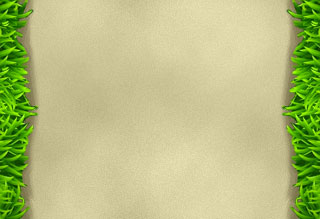
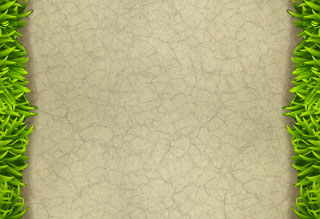
mend

diff --git a/source/js/core/game.js b/source/js/core/game.js
@@ -1,6 +1,7 @@
 var instance,
 	requestAnimationFrame = require("../util/request-animation-frame"),
-	Drawable = require("../core/drawable");
+	Drawable = require("../core/drawable"),
+	Road = require("../core/road");
 
 function Game() {
 	this.started = false;
@@ -9,17 +10,7 @@ function Game() {
 	this.height = Zepto(window).height();
 }
 
-var teste,
-	multiplier = 1;
-
-window.th = function (v) {
-	teste.height = v;
-	Zepto("div").css("height", v + "px");
-};
-window.tw = function (v) {
-	teste.width = v;
-	Zepto("div").css("width", v + "px");
-};
+var teste;
 
 Game.prototype = {
 	init: function (wrapperElement) {
@@ -27,6 +18,26 @@ Game.prototype = {
 		this.initialized = true;
 
 		this.createCanvasElem(wrapperElement);
+		this.addRoad();
+		this.addTapEvent();
+
+	},
+	addRoad: function () {
+		this.road = new Road(this.context, true);
+		this.road.width = this.width;
+		this.road.height = this.height;
+	},
+	run: function (event) {
+		console.log(event);
+	},
+	tapEvent: function (event) {
+		this.run(event);
+	},
+	addTapEvent: function () {
+		var that = this;
+		Zepto("body").on("click", function (event) {
+			that.tapEvent(event);
+		});
 	},
 	createCanvasElem: function (wrapperElement) {
 		wrapperElement.append(Zepto("<canvas id=\"gamecanvas\" width=\"" + this.width + "px\" height=\"" + this.height + "px\"></canvas>"));
@@ -41,50 +52,11 @@ Game.prototype = {
 		if(this.started) return;
 		this.started = true;
 
-		teste = new Drawable(this.context);
-		teste.tilling = true;
-		teste.setImage("http://192.168.25.176:7000/img/bricks-2.jpg");
-		teste.width = this.width;
-		teste.height = this.height;
-		teste.x = 0;
-		teste.y = 0;
-
-		th(teste.height);
-		tw(teste.width);
-
-		window.teste = teste;
-
 		this.increment();
 	},
 	increment: function () {
 		var that = this;
 
-		if(teste.imageY >= teste.imageHeight) {
-			teste.imageY = 1;
-		} else {
-			teste.imageY += 4;
-		}
-
-		/*
-		if(teste.imageX > teste.imageWidth) {
-			teste.imageX = 0;
-		} else {
-			teste.imageX += 3;
-		}
-		*/
-
-		/*
-		if(teste.height >= this.height) {
-			multiplier = -1;
-		} else if(teste.height <= 50) {
-			multiplier = 1;
-		}
-
-		th(teste.height += multiplier);
-		tw(teste.width += multiplier);
-		*/
-
-		//console.log("Incrementing...");
 		requestAnimationFrame(function () {
 			that.increment();
 		});

diff --git a/source/js/core/drawable.js b/source/js/core/drawable.js
@@ -1,7 +1,6 @@
-var requestAnimationFrame = require("../util/request-animation-frame");
+var renderer = require("../util/request-animation-frame");
 
-function Drawable(context) {
-	this.context = context;
+function Drawable() {
 	this.x = 0;
 	this.y = 0;
 	this.width = 0;
@@ -10,42 +9,52 @@ function Drawable(context) {
 	this.imageY = 0;
 	this.imageWidth = 0;
 	this.imageHeight = 0;
-	this.tilling = false;
+	this.isTiling = false;
 	this.image = null;
-	this.isAbleToRender = true;
-
-	this.draw();
+	this.super = this;
 }
 
-/*
-	@TODO: método para setar image x e y. motivo: limitar estes ao no máximo a largura e altura.
-	@TODO: trocar a propriedade tilling por método. motivo: resetar a largura e alura para original.
-*/
-
 Drawable.prototype = {
-	draw: function () {
+	beforeRender: function () {},
+	render: function () {
 		var that = this;
 
-		if(this.tilling) {
-			this.drawTilling();
+		this.beforeRender();
+
+		if(this.isTiling) {
+			this.renderTiling();
 		} else {
-			this.drawImage();
+			this.renderImage();
 		}
 
 		requestAnimationFrame(function () {
-			that.draw();
+			that.render();
 		});
 	},
-	isReadyToDraw: function () {
-		return this.isAbleToRender && this.image && this.image.width;
+	setImageX: function (x) {
+		if(x >= 0 && x < this.imageWidth) {
+			this.imageX = x;
+		} else {
+			this.imageX = 1;
+		}
 	},
-	drawImage: function () {
+	setImageY: function (y) {
+		if(y >= 0 && y < this.imageHeight) {
+			this.imageY = y;
+		} else {
+			this.imageY = 1;
+		}
+	},
+	isReadyToDraw: function () {
+		return this.image && this.image.width;
+	},
+	renderImage: function () {
 		if(this.isReadyToDraw()) {
 			this.context.drawImage(this.image, this.imageX, this.imageY, this.imageWidth, this.imageHeight, this.x, this.y, this.imageWidth, this.imageHeight);
 
 		}
 	},
-	drawTilling: function () {
+	renderTiling: function () {
 		if(this.isReadyToDraw()) {
 			var that = this,
 				iX, // iterator X
@@ -66,10 +75,6 @@ Drawable.prototype = {
 			if(this.imageWidth > this.width || this.imageHeight > this.height) {
 				return;
 			}
-
-			this.isAbleToRender = false;
-
-			this.context.clearRect(0, 0, 320, 500);
 
 			countX = Math.ceil(this.width / this.imageWidth) + 1;
 			countY = Math.ceil(this.height / this.imageHeight) + 1;

diff --git a/source/js/core/road.js b/source/js/core/road.js
@@ -1,25 +1,32 @@
-var requestAnimationFrame = require("./util/request-animation-frame"),
+var requestAnimationFrame = require("../util/request-animation-frame"),
 	Drawable = require("./drawable");
 
-function Road(context) {
+function Road(context, isTiling) {
+	var that = this;
+
 	this.objectList = [];
 	this.x = 0;
 	this.y = 0;
-	this.width = 320;
-	this.height = 658;
 
 	this.context = context;
-	this.draw();
+	this.isTiling = isTiling;
+	this.setImage("http://192.168.25.176:7000/img/bricks-2.jpg");
+
+	this.render();
 }
 
-Road.prototype = {
-	addObject: function (object) {
-		if(!(object instanceof Drawable)) throw new Error("Object must be a Drawable object");
-		this.objectList.push(object);
-	},
-	draw: function () {
+Road.prototype = new Drawable();
 
-	}
+Road.prototype.beforeRender = function () {
+	this.setImageY(this.imageY + 1);
+};
+
+Road.prototype.addObject = function (object) {
+	if(!(object instanceof Drawable)) throw new Error("Object must be a Drawable object");
+	this.objectList.push(object);
+};
+
+Road.prototype.advance = function () {
 
 };
 

diff --git a/source/js/core/renderer.js b/source/js/core/renderer.js
@@ -4,9 +4,11 @@ var requestAnimationFrame = require("../util/request-animation-frame"),
 
 function Renderer() {
 	var that = this;
-	this.frameRate = 24;
+	this.frameRate = 60;
 	this.accumulator = 0;
 	this.callbaks = [];
+	this.isReadyToExecuteQueue = true;
+	this.accumulatorLimit = Math.ceil(60 / this.frameRate);
 
 	function requestedFrame() {
 		requestAnimationFrame(function () {
@@ -25,14 +27,22 @@ Renderer.prototype = {
 		this.callbaks.push(callback);
 	},
 	executeQueue: function () {
-		if(!this.isFrameRateReached()) return;
-		this.callbaks.forEach(function (callback) {
+		var queue;
+		if(!this.isFrameRateReached() && !this.isReadyToExecuteQueue) return;
+		this.isReadyToExecuteQueue = false;
+
+		queue = this.callbaks;
+		this.callbaks = [];
+		queue.forEach(function (callback) {
 			callback();
 		});
+
+		this.isReadyToExecuteQueue = false;
+
 		this.accumulator = 0;
 	},
 	isFrameRateReached: function () {
-		return this.accumulator > 60 / this.frameRate;
+		return this.accumulator > this.accumulatorLimit;
 	}
 };
 

diff --git a/source/js/core/char.js b/source/js/core/char.js
@@ -1,0 +1,49 @@
+var requestAnimationFrame = require("../util/request-animation-frame"),
+	Drawable = require("./drawable");
+
+function Char(context, isTiling) {
+	var that = this;
+
+	this.spriteDirection = 1;
+	this.spriteTile = 0;
+	this.x = 0;
+	this.y = 0;
+
+	this.context = context;
+	this.isTiling = isTiling;
+	this.setImage("http://192.168.25.176:7000/img/bricks-2.jpg");
+
+	this.render();
+}
+
+Char.prototype = new Drawable();
+
+Char.prototype.beforeRender = function () {
+	this.setImageY(this.imageY + 1);
+};
+
+Char.prototype.stop = function () {
+	this.spriteTile = 0;
+	this.spriteDirection = 1;
+};
+
+Char.prototype.walk = function () {
+	this.spriteTile += this.spriteDirection;
+
+	if(this.spriteTile === 3) {
+		this.spriteDirection = -1;
+	} else if(this.spriteTile === 1) {
+		this.spriteDirection = 1;
+	}
+};
+
+Char.prototype.walk = function () {
+
+};
+
+Char.prototype.advance = function () {
+
+};
+
+module.exports = Char;
+r;

diff --git a/gruntfile.js b/gruntfile.js
@@ -36,7 +36,7 @@ module.exports = function (grunt) {
 	grunt.loadNpmTasks("grunt-contrib-less");
 	grunt.loadNpmTasks("grunt-contrib-watch");
 
-	grunt.registerTask("default", ["connect:app", "watch"]);
+	grunt.registerTask("default", ["watch"]);
 
 	grunt.registerTask("css:dev", ["clean:css", "less:dev"]);
 	grunt.registerTask("images:dev", ["clean:img", "copy:img"]);

diff --git a/task-config/grunt-browserify.js b/task-config/grunt-browserify.js
@@ -32,7 +32,7 @@ function browserify(env) {
 		throw new Error("Env must be a string");
 	}
 
-	if(env === "DEV") {
+	if(env.toUpperCase() === "DEV") {
 		debug = true;
 		sourceMap = true;
 	}

diff --git a/task-config/grunt-contrib-less.js b/task-config/grunt-contrib-less.js
@@ -26,7 +26,7 @@ function less(env) {
 		throw new Error("Env must be a string");
 	}
 
-	if(env === "DEV") {
+	if(env.toUpperCase() === "DEV") {
 		sourceMap = true;
 	}
 
